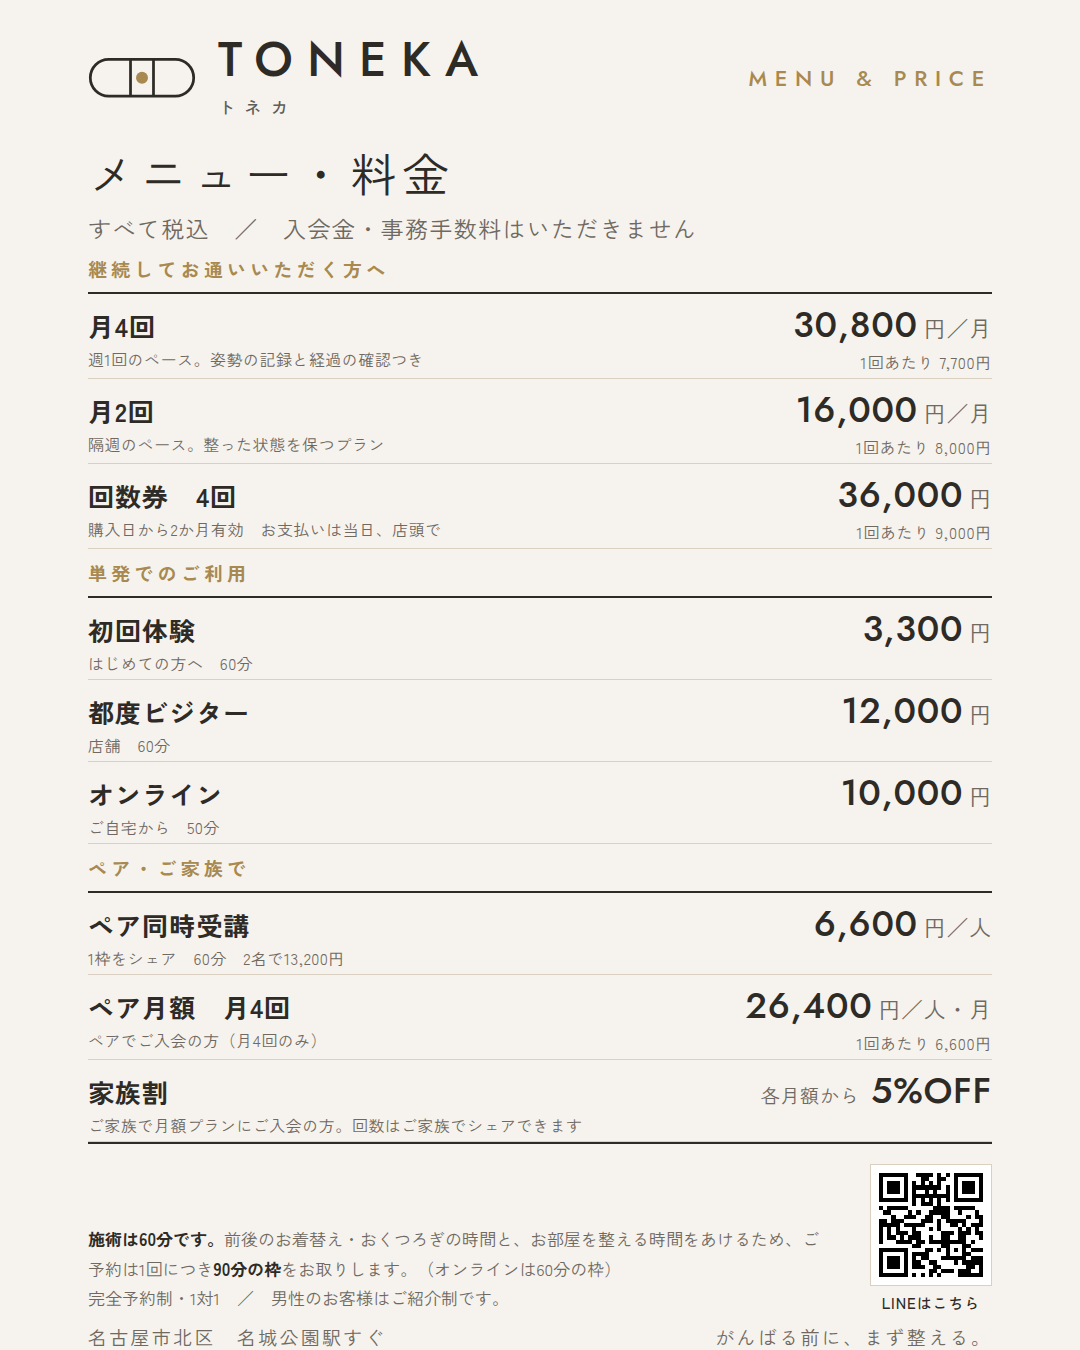
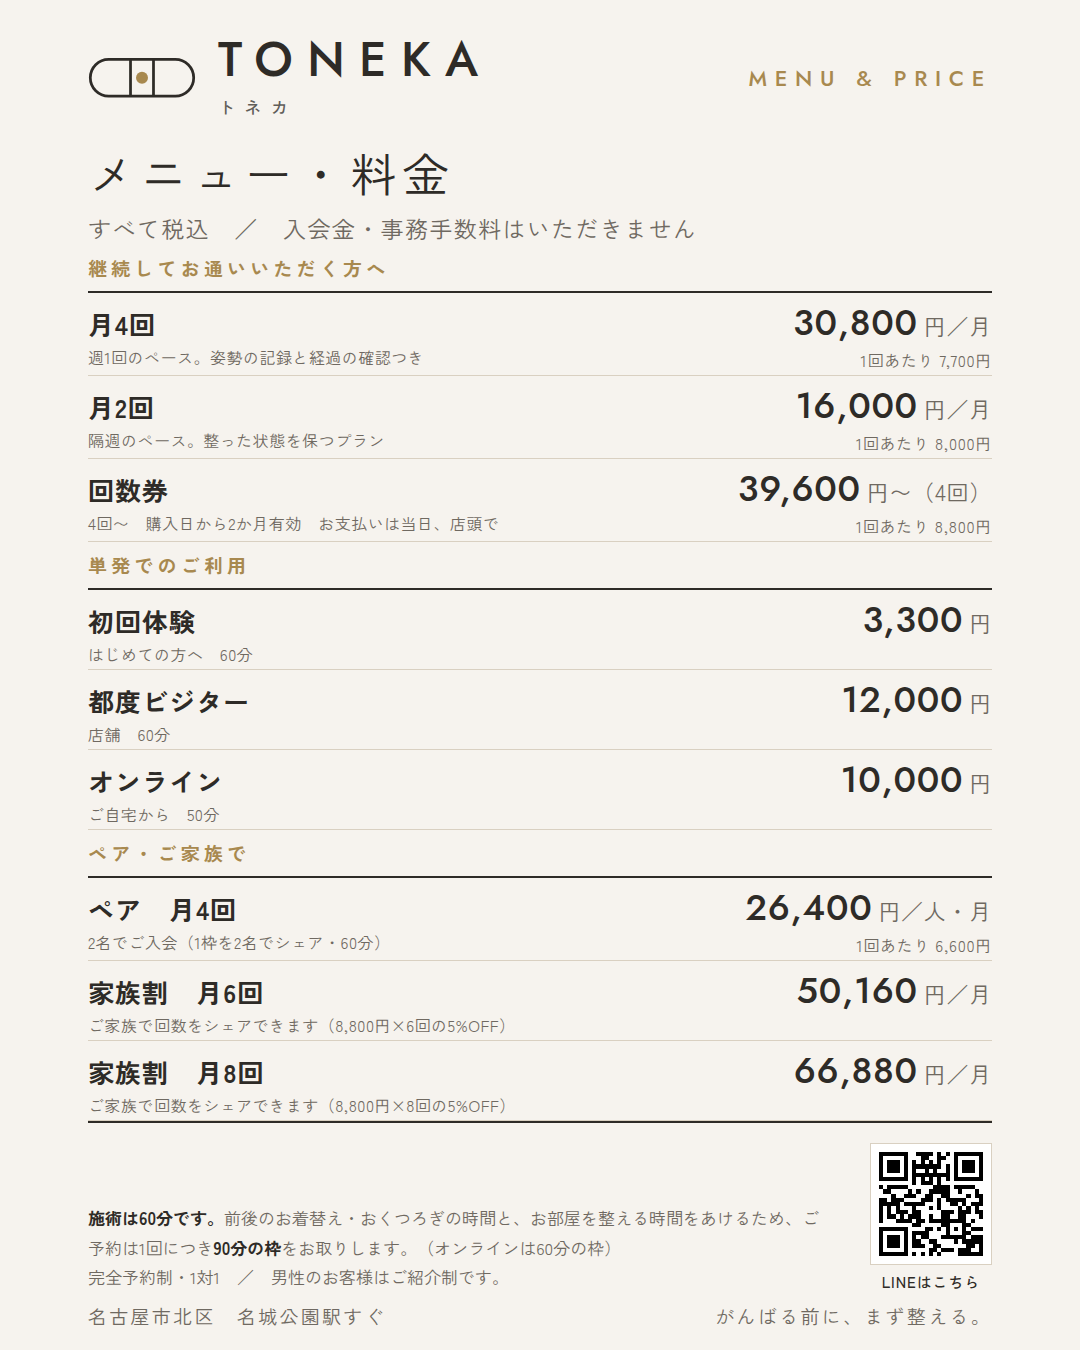
メニュー表：回数券は8,800円×回数、ペアは月4回のみ、家族割は月6回・8回
Claude-Session: https://claude.ai/code/session_01W4BHVBxgug1errHoaDhgy9

diff --git a/03_Marketer/メニュー表/menu.html b/03_Marketer/メニュー表/menu.html
@@ -18,9 +18,9 @@ body{width:1080px;height:1350px;background:var(--bg);color:var(--ink);font-famil
 .eyebrow{font-family:var(--sans);font-size:22px;letter-spacing:.35em;color:var(--brass);font-weight:500}
 h1{font-family:var(--sans);font-weight:400;font-size:46px;letter-spacing:.14em;margin:20px 0 2px}
 .sub{font-size:23px;color:var(--muted);letter-spacing:.06em}
-.group{margin-top:10px}
+.group{margin-top:9px}
 .glabel{font-size:19px;letter-spacing:.22em;color:var(--brass);font-weight:700;padding-bottom:10px;border-bottom:2px solid var(--ink)}
-.item{display:flex;align-items:baseline;justify-content:space-between;gap:24px;padding:4px 0;border-bottom:1px solid var(--line)}
+.item{display:flex;align-items:baseline;justify-content:space-between;gap:24px;padding:3px 0;border-bottom:1px solid var(--line)}
 .item .n{font-size:26px;font-weight:700;letter-spacing:.04em}
 .item .d{font-size:16px;color:var(--muted);margin-top:3px;letter-spacing:.03em}
 .price{font-family:var(--sans);font-weight:500;font-size:36px;letter-spacing:.02em;white-space:nowrap;text-align:right}
@@ -44,7 +44,7 @@ h1{font-family:var(--sans);font-weight:400;font-size:46px;letter-spacing:.14em;m
   <div class="glabel">継続してお通いいただく方へ</div>
   <div class="item"><div><div class="n">月4回</div><div class="d">週1回のペース。姿勢の記録と経過の確認つき</div></div><div class="price">30,800<small>円／月</small><span class="per">1回あたり 7,700円</span></div></div>
   <div class="item"><div><div class="n">月2回</div><div class="d">隔週のペース。整った状態を保つプラン</div></div><div class="price">16,000<small>円／月</small><span class="per">1回あたり 8,000円</span></div></div>
-  <div class="item"><div><div class="n">回数券　4回</div><div class="d">購入日から2か月有効　お支払いは当日、店頭で</div></div><div class="price">36,000<small>円</small><span class="per">1回あたり 9,000円</span></div></div>
+  <div class="item"><div><div class="n">回数券</div><div class="d">4回〜　購入日から2か月有効　お支払いは当日、店頭で</div></div><div class="price">39,600<small>円〜（4回）</small><span class="per">1回あたり 8,800円</span></div></div>
 </div>
 
 <div class="group">
@@ -56,9 +56,9 @@ h1{font-family:var(--sans);font-weight:400;font-size:46px;letter-spacing:.14em;m
 
 <div class="group">
   <div class="glabel">ペア・ご家族で</div>
-  <div class="item"><div><div class="n">ペア同時受講</div><div class="d">1枠をシェア　60分　2名で13,200円</div></div><div class="price">6,600<small>円／人</small></div></div>
-  <div class="item"><div><div class="n">ペア月額　月4回</div><div class="d">ペアでご入会の方（月4回のみ）</div></div><div class="price">26,400<small>円／人・月</small><span class="per">1回あたり 6,600円</span></div></div>
-  <div class="item"><div><div class="n">家族割</div><div class="d">ご家族で月額プランにご入会の方。回数はご家族でシェアできます</div></div><div class="price"><span style="font-family:var(--jp);font-size:19px;color:#6f6961;font-weight:400">各月額から</span> 5%OFF</div></div>
+  <div class="item"><div><div class="n">ペア　月4回</div><div class="d">2名でご入会（1枠を2名でシェア・60分）</div></div><div class="price">26,400<small>円／人・月</small><span class="per">1回あたり 6,600円</span></div></div>
+  <div class="item"><div><div class="n">家族割　月6回</div><div class="d">ご家族で回数をシェアできます（8,800円×6回の5%OFF）</div></div><div class="price">50,160<small>円／月</small></div></div>
+  <div class="item"><div><div class="n">家族割　月8回</div><div class="d">ご家族で回数をシェアできます（8,800円×8回の5%OFF）</div></div><div class="price">66,880<small>円／月</small></div></div>
 </div>
 
 <div class="bottom"><div class="note">

diff --git a/03_Marketer/メニュー表/README.md b/03_Marketer/メニュー表/README.md
@@ -19,3 +19,9 @@
 - **代表の案（金額は代表の発言から計算）：** ペア同時受講 **お一人6,600円**（2名13,200円・60分）。ペアの月額は**月4回のみ**（お一人26,400円／月＝1回6,600円×4）。家族割は**各月額から5%OFF＋回数を家族でシェアできる**。
 - **私の案（未確定）：** 回数券は **4回 36,000円**（1回9,000円）、購入日から2か月有効。回数・金額は代表が決める。**5万円を超える回数券（6回以上）は特定商取引法の対象になりうる**ため、4回までにするのが安全。
 - 画像に載っている「回数券 4回 36,000円」「ペア月額 26,400円」は、**未確定の案**。確定したら直す。
+
+## 2026-10-10 さらに更新（代表の指示）
+- **回数券：** 8,800円 × 回数。4回 39,600円〜（購入日から2か月有効・当日店頭払い）。4回より多い回数の価格は、8,800円×回数。
+- **ペア：** 月額の**月4回だけ**を表示（お一人26,400円／月＝1回6,600円。**金額は私の計算。要確認**）。
+- **家族割：** 月6回・月8回の2種類。基本の8,800円×回数から5%OFF（6回 50,160円／8回 66,880円）。**回数は家族でシェア可**。
+- **要確認：** 基本の8,800円が税込かどうか。家族割の1回あたり（約8,360円）が、月4回（7,700円）より高くなる点。回数券6回以上・家族割は5万円を超えるため、特定商取引法の確認が必要。
